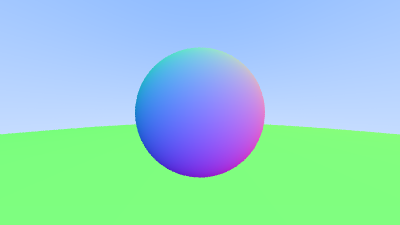
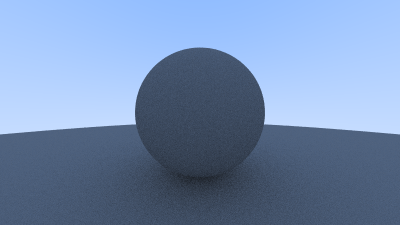
hacked away shadow acne with simple adjustment

diff --git a/src/vec3.rs b/src/vec3.rs
@@ -1,9 +1,11 @@
-use std::ops::{Add, Div, Mul, Sub, Neg, AddAssign, SubAssign, MulAssign, DivAssign, Index, IndexMut};
 use std::fmt::Display;
+use std::ops::{
+    Add, AddAssign, Div, DivAssign, Index, IndexMut, Mul, MulAssign, Neg, Sub, SubAssign,
+};
 
 #[derive(Debug, Clone, Copy)]
 pub struct Vec3 {
-    fields: [f64; 3]
+    fields: [f64; 3],
 }
 
 impl Vec3 {
@@ -15,10 +17,8 @@ impl Vec3 {
         Vec3::new(1.0, 1.0, 1.0)
     }
 
-    pub fn new(x: f64, y:f64, z:f64) -> Self {
-        Vec3 {
-            fields: [x, y, z]
-        }
+    pub fn new(x: f64, y: f64, z: f64) -> Self {
+        Vec3 { fields: [x, y, z] }
     }
 
     #[inline(always)]
@@ -60,9 +60,7 @@ impl Vec3 {
     }
 
     pub fn dot(lhs: &Self, rhs: &Self) -> f64 {
-        lhs.x() * rhs.x() + 
-        lhs.y() * rhs.y() + 
-        lhs.z() * rhs.z()
+        lhs.x() * rhs.x() + lhs.y() * rhs.y() + lhs.z() * rhs.z()
     }
 
     pub fn cross(lhs: &Self, rhs: &Self) -> Self {
@@ -70,8 +68,8 @@ impl Vec3 {
             fields: [
                 lhs.y() * rhs.z() - lhs.z() * rhs.y(),
                 lhs.z() * rhs.x() - lhs.x() * rhs.z(),
-                lhs.x() * rhs.y() - lhs.y() * rhs.x()
-            ]
+                lhs.x() * rhs.y() - lhs.y() * rhs.x(),
+            ],
         }
     }
 
@@ -84,6 +82,47 @@ impl Vec3 {
         temp
     }
 
+    #[inline(always)]
+    pub fn rand() -> Vec3 {
+        use super::utilities::rand;
+        Vec3::new(rand(), rand(), rand())
+    }
+
+    #[inline(always)]
+    pub fn rand_range(min: f64, max: f64) -> Vec3 {
+        use super::utilities::rand_range;
+        Vec3::new(
+            rand_range(min, max),
+            rand_range(min, max),
+            rand_range(min, max),
+        )
+    }
+    #[inline(always)]
+    pub fn rand_unit_in_sphere() -> Vec3 {
+        loop {
+            let p = Vec3::rand_range(-1.0, 1.0);
+            if p.len_squared() < 1.0 {
+                return p;
+            }
+        }
+    }
+    
+    #[inline(always)]
+    pub fn rand_unit() -> Vec3 {
+        Vec3::normalized(&Vec3::rand_unit_in_sphere())
+    }
+
+    #[inline(always)]
+    pub fn rand_on_hemisphere(normal: &Vec3) -> Vec3 {
+        let on_unit_sphere = Vec3::rand_unit();
+        if Vec3::dot(&on_unit_sphere, normal) > 0.0 {
+            on_unit_sphere
+        }
+        else {
+            -on_unit_sphere
+        }
+    }
+
 }
 
 impl Neg for Vec3 {
@@ -91,18 +130,18 @@ impl Neg for Vec3 {
 
     fn neg(self) -> Self::Output {
         Vec3 {
-            fields: [
-                -self.fields[0],
-                -self.fields[1],
-                -self.fields[2]
-            ]
+            fields: [-self.fields[0], -self.fields[1], -self.fields[2]],
         }
     }
 }
 
 impl Display for Vec3 {
     fn fmt(&self, f: &mut std::fmt::Formatter<'_>) -> std::fmt::Result {
-        write!(f, "({}, {}, {})", self.fields[0], self.fields[1], self.fields[2])
+        write!(
+            f,
+            "({}, {}, {})",
+            self.fields[0], self.fields[1], self.fields[2]
+        )
     }
 }
 
@@ -115,7 +154,7 @@ impl Add for Vec3 {
                 self.fields[0] + rhs.fields[0],
                 self.fields[1] + rhs.fields[1],
                 self.fields[2] + rhs.fields[2],
-            ]
+            ],
         }
     }
 }
@@ -137,7 +176,7 @@ impl Sub for Vec3 {
                 self.fields[0] - rhs.fields[0],
                 self.fields[1] - rhs.fields[1],
                 self.fields[2] - rhs.fields[2],
-            ]
+            ],
         }
     }
 }
@@ -159,34 +198,30 @@ impl Mul for Vec3 {
                 self.fields[0] * rhs.fields[0],
                 self.fields[1] * rhs.fields[1],
                 self.fields[2] * rhs.fields[2],
-            ]
+            ],
         }
     }
 }
 
 impl Mul<f64> for Vec3 {
     type Output = Self;
-    
+
     fn mul(self, rhs: f64) -> Self::Output {
         Vec3 {
             fields: [
                 self.fields[0] * rhs,
                 self.fields[1] * rhs,
                 self.fields[2] * rhs,
-            ]
+            ],
         }
     }
 }
-    
+
 impl Mul<Vec3> for f64 {
     type Output = Vec3;
-    
+
     fn mul(self, rhs: Vec3) -> Self::Output {
-        Vec3::new(
-            rhs.x() * self,
-            rhs.y() * self,
-            rhs.z() * self
-        )
+        Vec3::new(rhs.x() * self, rhs.y() * self, rhs.z() * self)
     }
 }
 
@@ -200,17 +235,17 @@ impl MulAssign<f64> for Vec3 {
 
 impl Div<f64> for Vec3 {
     type Output = Self;
-    
+
     fn div(self, rhs: f64) -> Self::Output {
-        (1.0f64/rhs) * self
+        (1.0f64 / rhs) * self
     }
 }
 
 impl DivAssign<f64> for Vec3 {
     fn div_assign(&mut self, rhs: f64) {
-        self.fields[0] *= 1.0f64/rhs;
-        self.fields[1] *= 1.0f64/rhs;
-        self.fields[2] *= 1.0f64/rhs;
+        self.fields[0] *= 1.0f64 / rhs;
+        self.fields[1] *= 1.0f64 / rhs;
+        self.fields[2] *= 1.0f64 / rhs;
     }
 }
 

diff --git a/src/camera.rs b/src/camera.rs
@@ -11,10 +11,11 @@ pub struct Camera {
     focal_length: f64,
     viewport: Viewport,
     samples: u32,
+    max_depth: u32
 }
 
 impl Camera {
-    pub fn new(aspect_ratio: f64, image_width: usize, samples: u32) -> Self {
+    pub fn new(aspect_ratio: f64, image_width: usize, samples: u32, max_depth: u32) -> Self {
         let focal_length = 1.0;
         let center = Point::zero();
         let viewport = Viewport::new(aspect_ratio, 2.0, image_width, 1.0, center);
@@ -24,11 +25,12 @@ impl Camera {
             focal_length,
             viewport,
             samples,
+            max_depth
         }
     }
 
     pub fn default() -> Camera {
-        Camera::new(16.0 / 9.0, 400, 10)
+        Camera::new(16.0 / 9.0, 400, 10, 10)
     }
 
     #[inline(always)]
@@ -46,23 +48,15 @@ impl Camera {
         self.viewport.image_width
     }
 
-    pub fn set_aspect_ratio(&mut self, aspect_ratio: f64) {
-        self.viewport.aspect_ratio = aspect_ratio
-    }
-
-    pub fn set_image_width(&mut self, width: usize) {
-        self.viewport.image_width = width
-    }
-
     pub fn render(&self, world: &dyn Hittable, image_data: &mut Vec<u8>) {
         for j in 0..self.height() {
             //println!("\rScanlines remaining: {} ", self.camera.height() - j);
 
             for i in 0..self.width() {
                 let mut pixel_color = Color::new(0.0, 0.0, 0.0);
-                for sample in 0..self.samples {
+                for _ in 0..self.samples {
                     let ray = self.get_ray(i, j);
-                    pixel_color += ray.color(world);
+                    pixel_color += ray.color(world, self.max_depth);
                 }
                 self.write_pixel(&pixel_color, self.samples, image_data);
             }
@@ -110,14 +104,13 @@ impl Camera {
 struct Viewport {
     pub image_width: usize,
     pub image_height: usize,
-    pub viewport_width: f64,
-    pub viewport_height: f64,
+    viewport_width: f64,
+    viewport_height: f64,
     viewport_u: Vec3,
     viewport_v: Vec3,
     pub pixel_delta_u: Vec3,
     pub pixel_delta_v: Vec3,
     pub pixel_00: Vec3,
-    pub aspect_ratio: f64,
 }
 
 impl Viewport {
@@ -154,7 +147,6 @@ impl Viewport {
             pixel_delta_u,
             pixel_delta_v,
             pixel_00,
-            aspect_ratio,
         }
     }
 }

diff --git a/src/raytracer.rs b/src/raytracer.rs
@@ -1,21 +1,22 @@
+use super::camera::Camera;
+use super::hittable::Hittable;
 use stb::image_write::stbi_write_png;
 use std::{ffi::CString, fmt::Display};
-use super::hittable::Hittable;
-use super::camera::Camera;
 
 #[derive(Debug)]
 pub struct Raytracer {
     data: Vec<u8>,
     camera: Camera,
-    components: i32
+    components: i32,
 }
 
 impl Raytracer {
     pub fn new() -> Self {
         Raytracer {
             data: Vec::new(),
-            camera: Camera::default(),
-            components: 3
+            camera: Camera::new(16.0 / 9.0, 400, 100, 50),
+            //camera: Camera::default(),
+            components: 3,
         }
     }
 
@@ -41,7 +42,9 @@ impl Display for Raytracer {
         write!(
             f,
             "width: {}, height: {}, components: {}",
-            self.camera.width(), self.camera.height(), self.components
+            self.camera.width(),
+            self.camera.height(),
+            self.components
         )
     }
 }

diff --git a/src/ray.rs b/src/ray.rs
@@ -37,12 +37,17 @@ impl Ray {
         self.origin + t * self.direction
     }
 
-    pub fn color(&self, world: &dyn Hittable) -> Color {
-        let hit = world.hit(&self, Interval::new(0.0, INFINITY));
+    pub fn color(&self, world: &dyn Hittable, depth: u32) -> Color {
+        if depth <= 0 {
+            return Color::black();
+        }
+        // interval starts from 0.001 to hack away the shadow acne problem
+        let hit = world.hit(&self, Interval::new(0.001, INFINITY));
         match hit {
             None => (),
             Some(result) => {
-                return (*result.normal() + Color::white()) * 0.5;
+                let direction = Vec3::rand_on_hemisphere(result.normal());
+                return Ray::new(*result.location(), direction).color(world, depth-1) * 0.5;
             }
         }
         // background

diff --git a/src/lib.rs b/src/lib.rs
@@ -1,12 +1,12 @@
-pub mod camera;
-pub mod color;
+mod camera;
+mod color;
 pub mod hittable;
 pub mod hittable_list;
-pub mod ray;
+mod ray;
 pub mod raytracer;
 pub mod sphere;
-pub mod vec3;
-pub mod utilities;
-pub mod interval;
+mod vec3;
+mod utilities;
+mod interval;
 
 pub use vec3::Vec3 as Point;
